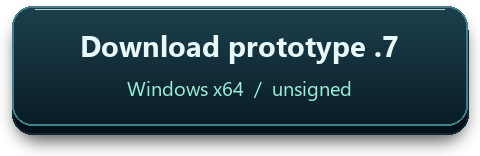
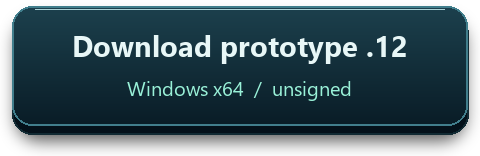
release: qualify prototype .12 and refresh download guide
Copilot-Session: e4a2585a-8b13-460d-bf1b-07e8f69e1aff

Changed region(s): [[0.1562, 0.2051, 0.8438, 0.4103]]

diff --git a/tools/docs/render_readme.py b/tools/docs/render_readme.py
@@ -252,9 +252,9 @@ def main():
     draw.text((680, 200), "YOUR VOICE. YOUR CONTEXT. CONNECTED.",
               font=font(27), fill=MINT, anchor="mm")
     title.save(ASSETS / "readme-title.png", optimize=True)
-    panel("readme-download.png", "Download prototype .7", "Windows x64  /  unsigned")
+    panel("readme-download.png", "Download prototype .12", "Windows x64  /  unsigned")
     panel("readme-guide.png", "Project guide", "Setup  /  workflows  /  architecture")
-    panel("readme-prototype.png", "Latest local build .11", "Mic fixes  /  not yet published")
+    panel("readme-prototype.png", "Prototype .12", "Always-visible mic  /  release notes")
     gallery("readme-voices.png", "prototype-voice-profiles.png",
             "A voice that fits your workflow.", "Packaged .7  /  installed voice profiles  /  synthetic test contexts")
     gallery("readme-workspace.png", "prototype-window-controls.png",

diff --git a/docs/guide.md b/docs/guide.md
@@ -39,17 +39,19 @@ gate selection.
 ## Run the prototype
 
 The current Windows x64 prototype is **unsigned**:
-[Download the .7 EXE](https://github.com/Zanark/Intercom/releases/download/v0.1.0-prototype.7/Intercom-Prototype-0.1.0-prototype.7-win-x64.exe)
-from the [prototype prerelease](https://github.com/Zanark/Intercom/releases/tag/v0.1.0-prototype.7).
-Only the latest local .11 candidate is retained:
-`C:\devdesk\homedesk\Intercom\release\mic-layout-candidate\Intercom-Prototype-0.1.0-prototype.11-win-x64.exe`.
-It is not the published .7 download.
+[Download the .12 EXE](https://github.com/Zanark/Intercom/releases/download/v0.1.0-prototype.12/Intercom-Prototype-0.1.0-prototype.12-win-x64.exe)
+from the [prototype prerelease](https://github.com/Zanark/Intercom/releases/tag/v0.1.0-prototype.12).
+The new local artifact is:
+`C:\devdesk\homedesk\Intercom\release\prototype-12-candidate\Intercom-Prototype-0.1.0-prototype.12-win-x64.exe`.
+The earlier retained .11 and published .7 are preserved, not overwritten.
 
-This .7 release adds persistent **Voice profiles**: installed voice/gender/
-accent choice, pitch, speed, volume, preview, duplication and naming.
-Floating movement/sizing, deep graph zoom and native maximize/restore remain
-available. Earlier local executables were removed in the owner-requested
-cleanup; published GitHub releases are unchanged.
+Prototype .12 includes the microphone fixes since .7: session-independent local
+capture/transcription, a stationary microphone in both views, a collapsed
+single-row floating dock, accessible settings/transcripts and explicit review
+of uncertain/long recognition. Hover or pin mesh nodes to identify them without
+permanent labels. It also packages the reorganized repository and retains
+named installed-voice profiles, pitch/speed/volume, deep graph zoom,
+maximize/restore and confirmed existing-session background work.
 
 The live source acceptance path captured synthetic speech, executed the exact
 approved read-only `Get-Location` in the existing session, returned "Hello world."
@@ -66,7 +68,7 @@ bundled Electron runtime; startup speed has not been benchmarked.
 
 The [earlier fixture-only .1 prerelease](https://github.com/Zanark/Intercom/releases/tag/v0.1.0-prototype.1)
 is preserved unchanged. The intermediate .2-.6 builds are historical
-qualification records; their features are included in .7.
+qualification records; their features are included in .12.
 
 From `C:\devdesk\homedesk\Intercom` in PowerShell, with Node.js/npm installed:
 
@@ -80,21 +82,21 @@ Use the top-right **Maximize window** square to fill the screen; it becomes
 **+ / -** for centered zoom, or right-drag to pan. Zoom can enter the sphere;
 **Reset view** restores the starting camera and graph orientation.
 
-**Source checkout feature; not in the published .7 download:** hover a colored
+**Node identification in .12:** hover a colored
 node for its name, or click/tap to pin its details and base path. Names stay
 hidden otherwise. Close with Escape, the close button, a same-node click or
 blank-space click. Keyboard: focus the graph, arrow through nodes, Enter/Space
 to pin. Inspecting a node does not change the work target.
 
-Click **Floating mesh** to hide the panels and window background. **Local .10
-and newer/current checkout:** the bottom dock starts collapsed. Its **Drag to
+Click **Floating mesh** to hide the panels and window background. **Prototype .10
+and newer, including .12:** the bottom dock starts collapsed. Its **Drag to
 move** grip moves the native window; the adjacent arrow expands one horizontal
 row containing graph zoom/reset, restore, pin, close and window-size controls.
 At small sizes the row scrolls horizontally rather than wrapping. The size
 buttons resize the native window without changing graph zoom. There is no
 separate top grip or hovering zoom toolbar in this view.
 
-**Local .11/current checkout:** the large **Speak** button is fixed at the
+**Prototype .11 and newer, including .12:** the large **Speak** button is fixed at the
 bottom center of the whole window, in its own operational bar below the graph
 and scrolling panels. It never shifts when recording or cancellation controls
 appear. In floating mode it stays centered above, and outside, the collapsed
@@ -114,18 +116,18 @@ demo remains synthetic and separate from live capture.
 workspace; **Ctrl+Shift+M** toggles views while Intercom has focus. Returning from
 a maximized workspace retains its previous normal-window bounds/maximization.
 Older .7-.9 builds retain the top drag handle and two-row dock; they do not
-update automatically. See the [separate .11 candidate](prototype/prototype.md#local-microphone-layout-candidate-010-prototype11).
+update automatically. See the [current prototype details](prototype/prototype.md#prototype-010-prototype12).
 
-**Local .8 and newer candidates/current checkout:** in .11 click **Settings**
+**Prototype .8 and newer, including .12:** click **Settings**
 beside Speak first, then **Load microphones**, select FDUCE
 (or your preferred input), optionally **Test selected**, then **Speak**. The meter
 shows the selected input while recording. No Copilot connection is needed for
 recording or local transcription. Click **Stop & transcribe** to retain an
 editable transcript; without a connection, nothing is sent, even if automatic
 sending is checked. **Load/Test only checks access**, not capture or recognition.
-The [prototype guide](prototype/prototype.md#local-microphone-fix-candidate-010-prototype8)
-identifies the separate fixed EXE; the published .7 download is unchanged and
-still requires connection before Speak.
+The [prototype guide](prototype/prototype.md#prototype-010-prototype12)
+identifies the fixed .12 EXE; the older .7 download is unchanged and still
+requires connection before Speak.
 
 To send, paste your existing dedicated session UUID and click **Connect existing
 session**, then **Send text to Copilot**. Connecting alone never sends an existing
@@ -136,14 +138,14 @@ and automatic sending enabled use **Stop & send** and read the returned answer.
 Disable automatic sending to review/edit before sending. Typed fallback remains
 available.
 
-**Local .9 candidate/current checkout:** low-confidence recognition preserves
+**Prototype .9 and newer, including .12:** low-confidence recognition preserves
 the transcript for review instead of discarding it. Nothing is automatically
 sent or proposed in any destination; review/edit, then explicitly send or prepare
 work. Transcripts over 1,000 characters remain intact but must be shortened
 before sending. There is no automatic truncation or splitting. Empty recognition
 still gives a distinct error. This improves recovery, not recognition accuracy;
 the engine remains Windows English (US), regardless of the speaking-voice profile.
-See the [separate recognition-review candidate](prototype/prototype.md#local-recognition-review-candidate-010-prototype9).
+See the [current prototype details](prototype/prototype.md#prototype-010-prototype12).
 
 English (US) Windows speech recognition and an installed English voice are
 required; nothing is downloaded. Audio stays in memory and is not uploaded.
@@ -300,7 +302,7 @@ The workspace/voice gallery preserves the earlier packaged captures above,
 with explicit version/synthetic-context captions. The two floating showcases
 use the owner's supplied desktop and browser screenshots, resized without
 cropping. They demonstrate the transparent mesh over other surfaces, but show
-an earlier control layout, not the current .11 microphone placement. They are
+an earlier control layout, not the current .12 microphone placement. They are
 not fresh runtime captures or microphone-quality evidence.
 
 Reproduce the documentation assets with Python and Pillow (rendered with

diff --git a/docs/prototype/prototype.md b/docs/prototype/prototype.md
@@ -1,11 +1,65 @@
 # Desktop prototype
 
-**Local retention (2026-11-11):** the owner requested cleanup of `release`.
-Only `release\mic-layout-candidate` (.11 portable, checksum and build support
-files) remains. Older local executables/unpacked builds were removed; their
-sections below are historical qualification records, not available local paths.
-Published GitHub releases/assets are unchanged. `release` is Git-ignored;
-source pushes carry this record, not the executable.
+**Local retention (2026-11-11):** `release\prototype-12-candidate` holds the new
+.12 package; `release\mic-layout-candidate` retains .11 for rollback. The earlier
+owner-requested cleanup removed older local builds. Their sections below are
+historical qualification records, not available local paths. Existing published
+releases are preserved. `release` is Git-ignored; binaries are release assets,
+not source commits.
+
+## Prototype 0.1.0-prototype.12
+
+[Windows x64 prerelease and checksum](https://github.com/Zanark/Intercom/releases/tag/v0.1.0-prototype.12).
+Unsigned Windows x64 portable:
+`C:\devdesk\homedesk\Intercom\release\prototype-12-candidate\Intercom-Prototype-0.1.0-prototype.12-win-x64.exe`
+
+110,679,248 bytes; SHA-256:
[1 lines of base64/hex data omitted]
+The sibling `SHA256SUMS.txt` records the checksum. This source milestone
+qualifies the package; publication and public-download verification are pending.
+Launching a new build does not update an already-running instance.
+
+### Changes since published .7
+
+| Feature | Actual .12 behavior |
+|---|---|
+| Always-visible microphone | Stationary 64 px Speak control across the whole workspace and above the floating dock, outside scrolling content. Settings opens input selection; transcript comes first and secondary controls start collapsed. |
+| Local capture without a session | Selected-device recording/transcription does not require Copilot. Disconnected text stays editable and unsent; connection alone never dispatches it. |
+| Recognition recovery | Uncertain text requires explicit review in every destination. Over-limit text is retained for manual shortening, not silently truncated, split or automatically sent. This does not change recognition accuracy or its English-only engine. |
+| Floating controls | Default-collapsed, single-row dock with native movement/sizing and graph controls. The microphone stays outside it; one selected stream survives view changes. Review/errors/settings open in a scrollable panel. |
+| Node identification | Hover for a name; click/tap or keyboard-pin for details/path. Labels stay hidden otherwise. Inspection never changes the work target or establishes observed context reads. |
+| Repository and presentation | Reorganized renderer/native/test/docs/tooling paths with verified packaged resources. Centered image-led README, transparent animated sphere and supplied desktop/browser showcases. The README mic animation is simulated, not live input. |
+
+Installed voice profiles, synthesis controls, actual-mesh loading, graph
+navigation, native window controls, confirmed existing-session work and durable
+receipts retain the [.7 baseline contracts](#published-prototype-010-prototype7).
+The microphone, floating dock and node-identification rows above supersede the
+corresponding historical .7 behavior.
+
+### Qualification and limits
+
+Fresh .12 lint/type/build, eight renderer/PCM units, 17 native voice cases and
+17 mesh/work-host cases pass. **All 28 packaged desktop cases pass together**
+against the .12 unpacked executable with disposable profiles and synthetic
+audio/mesh. Actual portable startup separately passes synthetic workspace/
+floating recording, signal, cancellation and track release; native voice
+profiles/persistence; maximize/restore; graph/native-size controls; and the
+collapsed dock. Its real snapshot loaded 40 contexts and 30 relationships.
+All 15 built runtime resources match source; exact package version, four
+license notices and development/private exclusions are verified.
+
+These are not physical FDUCE or human speech/listening acceptance. No new real
+Copilot task, audible preview or user-app restart was performed for .12.
+Native permission prompts, automatic terminal task handoff, richer arbitrary
+voice identity/timbre/emotion and measured performance remain unqualified or
+unimplemented as described in the baseline. Speed is the default preference,
+not a measured latency guarantee. Push-to-talk remains English-only and
+half-duplex: no wake word, always-listening mode, active-session attach or new
+session creation. The optional external prompt-inbox connector is not included.
+Vite still reports the existing mesh chunk-size warning.
+
+The retained .11 EXE checksum is unchanged. Earlier .7/.1 release assets and
+tags will not be overwritten by this separately versioned prerelease.
 
 ## Local microphone-layout candidate: 0.1.0-prototype.11
 
@@ -200,7 +254,7 @@ not represented as a finished feature.
 
 ### Graph and window controls
 
-**Source checkout update, not included in the published .7 EXE:** hover a colored
+**Included in .12, not in the historical .7 EXE:** hover a colored
 context node to reveal its name and subtitle. Click/tap to pin the small label
 and reveal its base path; close it with **Escape**, its close button, another
 click on the same node, or a blank-space click. The center identifies the

diff --git a/README.md b/README.md
@@ -12,9 +12,9 @@
 </p>
 
 <p align="center">
-  <a href="https://github.com/Zanark/Intercom/releases/tag/v0.1.0-prototype.7"><img src="docs/assets/readme/readme-download.png" alt="Download prototype .7: Windows x64, unsigned. Read the release warnings and verify checksums." width="240" /></a>
+  <a href="https://github.com/Zanark/Intercom/releases/tag/v0.1.0-prototype.12"><img src="docs/assets/readme/readme-download.png" alt="Download prototype .12: Windows x64, unsigned. Read the release warnings and verify checksums." width="240" /></a>
   <a href="docs/guide.md"><img src="docs/assets/readme/readme-guide.png" alt="Project guide: setup, workflows, architecture and documentation." width="240" /></a>
-  <a href="docs/prototype/prototype.md#local-microphone-layout-candidate-010-prototype11"><img src="docs/assets/readme/readme-prototype.png" alt="Latest local prototype .11, not yet published: centered microphone, simplified settings, executable path, checksum and limitations." width="240" /></a>
+  <a href="docs/prototype/prototype.md#prototype-010-prototype12"><img src="docs/assets/readme/readme-prototype.png" alt="Prototype .12: permanent microphone in both views, transcript review, on-demand node labels, checksums and limitations." width="240" /></a>
 </p>
 
 <p align="center">
@@ -22,13 +22,13 @@
 </p>
 
 <p align="center">
-  <a href="docs/prototype/prototype.md"><img src="docs/assets/readme/readme-workspace.png" alt="Actual packaged .5 workspace: graph zoom and native maximize/restore controls. Synthetic test contexts; these features are retained in .7." width="960" /></a>
+  <a href="docs/prototype/prototype.md"><img src="docs/assets/readme/readme-workspace.png" alt="Actual packaged .5 workspace: graph zoom and native maximize/restore controls. Synthetic test contexts; these features are retained in .12." width="960" /></a>
 </p>
 
 <p align="center">
-  <a href="docs/guide.md#readme-artwork"><img src="docs/assets/readme/readme-floating.png" alt="Owner-provided screenshot: transparent Floating Mesh hovering over a rocky coastline desktop wallpaper. Shows an earlier control layout, not the current .11 microphone placement." width="960" /></a>
+  <a href="docs/guide.md#readme-artwork"><img src="docs/assets/readme/readme-floating.png" alt="Owner-provided screenshot: transparent Floating Mesh hovering over a rocky coastline desktop wallpaper. Shows an earlier control layout, not the current .12 microphone placement." width="960" /></a>
 </p>
 
 <p align="center">
-  <a href="docs/guide.md#readme-artwork"><img src="docs/assets/readme/readme-floating-browser.png" alt="Owner-provided screenshot: transparent Floating Mesh above the Intercom repository in a browser. Shows an earlier control layout, not the current .11 microphone placement." width="960" /></a>
+  <a href="docs/guide.md#readme-artwork"><img src="docs/assets/readme/readme-floating-browser.png" alt="Owner-provided screenshot: transparent Floating Mesh above the Intercom repository in a browser. Shows an earlier control layout, not the current .12 microphone placement." width="960" /></a>
 </p>

diff --git a/docs/architecture/runtime-contracts.md b/docs/architecture/runtime-contracts.md
@@ -11,7 +11,7 @@ receipt. It does not implement the proposed Rust/SQLite queue or durable
 notification outbox below. Terminal mode only opens the existing session for
 manual task entry; it does not claim acknowledged ownership transfer or send
 the task automatically. Exact behavior, native/fixture evidence and remaining
-gates are in the [current feature matrix](../prototype/prototype.md#published-prototype-010-prototype7).
+gates are in the [current feature matrix](../prototype/prototype.md#prototype-010-prototype12).
 
 ## 1. Process topology and authority
 
